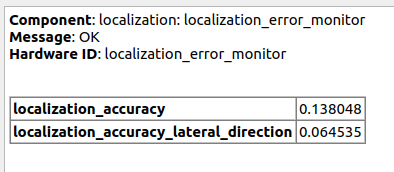
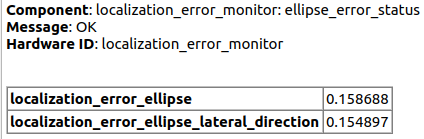
fix(localization_error_monitor, system diag): fix to use diagnostics_module in localization_util (autowarefoundation/autoware_universe#8543)
* fix(localization_error_monitor): fix to use diagnostics_module in localization_util

* fix: update media

* fix: update component name

* fix: rename include file

---------

diff --git a/universe/localization/autoware_localization_error_monitor/test/test_diagnostics.cpp b/universe/localization/autoware_localization_error_monitor/test/test_diagnostics.cpp
@@ -12,7 +12,7 @@
 // See the License for the specific language governing permissions and
 // limitations under the License.
 
-#include "diagnostics.hpp"
+#include "diagnostics_helper.hpp"
 
 #include <gtest/gtest.h>
 
@@ -80,66 +80,4 @@ TEST(TestLocalizationErrorMonitorDiagnostics, CheckLocalizationAccuracyLateralDi
   stat = autoware::localization_error_monitor::check_localization_accuracy_lateral_direction(
     ellipse_size, warn_ellipse_size, error_ellipse_size);
   EXPECT_EQ(stat.level, diagnostic_msgs::msg::DiagnosticStatus::ERROR);
-}
-
-TEST(TestLocalizationErrorMonitorDiagnostics, MergeDiagnosticStatus)
-{
-  diagnostic_msgs::msg::DiagnosticStatus merged_stat;
-  std::vector<diagnostic_msgs::msg::DiagnosticStatus> stat_array(2);
-
-  stat_array.at(0).level = diagnostic_msgs::msg::DiagnosticStatus::OK;
-  stat_array.at(0).message = "OK";
-  stat_array.at(1).level = diagnostic_msgs::msg::DiagnosticStatus::OK;
-  stat_array.at(1).message = "OK";
-  merged_stat = autoware::localization_error_monitor::merge_diagnostic_status(stat_array);
-  EXPECT_EQ(merged_stat.level, diagnostic_msgs::msg::DiagnosticStatus::OK);
-  EXPECT_EQ(merged_stat.message, "OK");
-
-  stat_array.at(0).level = diagnostic_msgs::msg::DiagnosticStatus::WARN;
-  stat_array.at(0).message = "WARN0";
-  stat_array.at(1).level = diagnostic_msgs::msg::DiagnosticStatus::OK;
-  stat_array.at(1).message = "OK";
-  merged_stat = autoware::localization_error_monitor::merge_diagnostic_status(stat_array);
-  EXPECT_EQ(merged_stat.level, diagnostic_msgs::msg::DiagnosticStatus::WARN);
-  EXPECT_EQ(merged_stat.message, "WARN0");
-
-  stat_array.at(0).level = diagnostic_msgs::msg::DiagnosticStatus::OK;
-  stat_array.at(0).message = "OK";
-  stat_array.at(1).level = diagnostic_msgs::msg::DiagnosticStatus::WARN;
-  stat_array.at(1).message = "WARN1";
-  merged_stat = autoware::localization_error_monitor::merge_diagnostic_status(stat_array);
-  EXPECT_EQ(merged_stat.level, diagnostic_msgs::msg::DiagnosticStatus::WARN);
-  EXPECT_EQ(merged_stat.message, "WARN1");
-
-  stat_array.at(0).level = diagnostic_msgs::msg::DiagnosticStatus::WARN;
-  stat_array.at(0).message = "WARN0";
-  stat_array.at(1).level = diagnostic_msgs::msg::DiagnosticStatus::WARN;
-  stat_array.at(1).message = "WARN1";
-  merged_stat = autoware::localization_error_monitor::merge_diagnostic_status(stat_array);
-  EXPECT_EQ(merged_stat.level, diagnostic_msgs::msg::DiagnosticStatus::WARN);
-  EXPECT_EQ(merged_stat.message, "WARN0; WARN1");
-
-  stat_array.at(0).level = diagnostic_msgs::msg::DiagnosticStatus::OK;
-  stat_array.at(0).message = "OK";
-  stat_array.at(1).level = diagnostic_msgs::msg::DiagnosticStatus::ERROR;
-  stat_array.at(1).message = "ERROR1";
-  merged_stat = autoware::localization_error_monitor::merge_diagnostic_status(stat_array);
-  EXPECT_EQ(merged_stat.level, diagnostic_msgs::msg::DiagnosticStatus::ERROR);
-  EXPECT_EQ(merged_stat.message, "ERROR1");
-
-  stat_array.at(0).level = diagnostic_msgs::msg::DiagnosticStatus::WARN;
-  stat_array.at(0).message = "WARN0";
-  stat_array.at(1).level = diagnostic_msgs::msg::DiagnosticStatus::ERROR;
-  stat_array.at(1).message = "ERROR1";
-  merged_stat = autoware::localization_error_monitor::merge_diagnostic_status(stat_array);
-  EXPECT_EQ(merged_stat.level, diagnostic_msgs::msg::DiagnosticStatus::ERROR);
-  EXPECT_EQ(merged_stat.message, "WARN0; ERROR1");
-
-  stat_array.at(0).level = diagnostic_msgs::msg::DiagnosticStatus::ERROR;
-  stat_array.at(0).message = "ERROR0";
-  stat_array.at(1).level = diagnostic_msgs::msg::DiagnosticStatus::ERROR;
-  stat_array.at(1).message = "ERROR1";
-  merged_stat = autoware::localization_error_monitor::merge_diagnostic_status(stat_array);
-  EXPECT_EQ(merged_stat.level, diagnostic_msgs::msg::DiagnosticStatus::ERROR);
-  EXPECT_EQ(merged_stat.message, "ERROR0; ERROR1");
 }

diff --git a/universe/localization/autoware_localization_error_monitor/src/localization_error_monitor.cpp b/universe/localization/autoware_localization_error_monitor/src/localization_error_monitor.cpp
@@ -14,7 +14,7 @@
 
 #include "localization_error_monitor.hpp"
 
-#include "diagnostics.hpp"
+#include "diagnostics_helper.hpp"
 
 #include <Eigen/Dense>
 
@@ -56,36 +56,38 @@ LocalizationErrorMonitor::LocalizationErrorMonitor(const rclcpp::NodeOptions & o
   ellipse_marker_pub_ =
     this->create_publisher<visualization_msgs::msg::Marker>("debug/ellipse_marker", durable_qos);
 
-  diag_pub_ = this->create_publisher<diagnostic_msgs::msg::DiagnosticArray>("/diagnostics", 10);
-
   logger_configure_ = std::make_unique<autoware::universe_utils::LoggerLevelConfigure>(this);
+
+  diagnostics_error_monitor_ = std::make_unique<DiagnosticsModule>(this, "ellipse_error_status");
 }
 
 void LocalizationErrorMonitor::on_odom(nav_msgs::msg::Odometry::ConstSharedPtr input_msg)
 {
+  diagnostics_error_monitor_->clear();
+
   ellipse_ = autoware::localization_util::calculate_xy_ellipse(input_msg->pose, scale_);
 
   const auto ellipse_marker = autoware::localization_util::create_ellipse_marker(
     ellipse_, input_msg->header, input_msg->pose);
   ellipse_marker_pub_->publish(ellipse_marker);
 
-  // diagnostics
-  std::vector<diagnostic_msgs::msg::DiagnosticStatus> diag_status_array;
-  diag_status_array.push_back(
-    check_localization_accuracy(ellipse_.long_radius, warn_ellipse_size_, error_ellipse_size_));
-  diag_status_array.push_back(check_localization_accuracy_lateral_direction(
+  // update localization accuracy diagnostics
+  const auto accuracy_status =
+    check_localization_accuracy(ellipse_.long_radius, warn_ellipse_size_, error_ellipse_size_);
+  diagnostics_error_monitor_->add_key_value("localization_error_ellipse", ellipse_.long_radius);
+  diagnostics_error_monitor_->update_level_and_message(
+    accuracy_status.level, accuracy_status.message);
+
+  // update lateral direction error diagnostics
+  const auto lateral_direction_status = check_localization_accuracy_lateral_direction(
     ellipse_.size_lateral_direction, warn_ellipse_size_lateral_direction_,
-    error_ellipse_size_lateral_direction_));
+    error_ellipse_size_lateral_direction_);
+  diagnostics_error_monitor_->add_key_value(
+    "localization_error_ellipse_lateral_direction", ellipse_.size_lateral_direction);
+  diagnostics_error_monitor_->update_level_and_message(
+    lateral_direction_status.level, lateral_direction_status.message);
 
-  diagnostic_msgs::msg::DiagnosticStatus diag_merged_status;
-  diag_merged_status = merge_diagnostic_status(diag_status_array);
-  diag_merged_status.name = "localization: " + std::string(this->get_name());
-  diag_merged_status.hardware_id = this->get_name();
-
-  diagnostic_msgs::msg::DiagnosticArray diag_msg;
-  diag_msg.header.stamp = input_msg->header.stamp;
-  diag_msg.status.push_back(diag_merged_status);
-  diag_pub_->publish(diag_msg);
+  diagnostics_error_monitor_->publish(this->now());
 }
 }  // namespace autoware::localization_error_monitor
 

diff --git a/universe/localization/autoware_localization_error_monitor/src/diagnostics_helper.hpp b/universe/localization/autoware_localization_error_monitor/src/diagnostics_helper.hpp
@@ -12,7 +12,8 @@
 // See the License for the specific language governing permissions and
 // limitations under the License.
 
-#include "diagnostics.hpp"
+#ifndef DIAGNOSTICS_HELPER_HPP_
+#define DIAGNOSTICS_HELPER_HPP_
 
 #include <diagnostic_msgs/msg/diagnostic_status.hpp>
 
@@ -21,15 +22,10 @@
 
 namespace autoware::localization_error_monitor
 {
-diagnostic_msgs::msg::DiagnosticStatus check_localization_accuracy(
+inline diagnostic_msgs::msg::DiagnosticStatus check_localization_accuracy(
   const double ellipse_size, const double warn_ellipse_size, const double error_ellipse_size)
 {
   diagnostic_msgs::msg::DiagnosticStatus stat;
-
-  diagnostic_msgs::msg::KeyValue key_value;
-  key_value.key = "localization_error_ellipse";
-  key_value.value = std::to_string(ellipse_size);
-  stat.values.push_back(key_value);
 
   stat.level = diagnostic_msgs::msg::DiagnosticStatus::OK;
   stat.message = "OK";
@@ -45,15 +41,10 @@ diagnostic_msgs::msg::DiagnosticStatus check_localization_accuracy(
   return stat;
 }
 
-diagnostic_msgs::msg::DiagnosticStatus check_localization_accuracy_lateral_direction(
+inline diagnostic_msgs::msg::DiagnosticStatus check_localization_accuracy_lateral_direction(
   const double ellipse_size, const double warn_ellipse_size, const double error_ellipse_size)
 {
   diagnostic_msgs::msg::DiagnosticStatus stat;
-
-  diagnostic_msgs::msg::KeyValue key_value;
-  key_value.key = "localization_error_ellipse_lateral_direction";
-  key_value.value = std::to_string(ellipse_size);
-  stat.values.push_back(key_value);
 
   stat.level = diagnostic_msgs::msg::DiagnosticStatus::OK;
   stat.message = "OK";
@@ -69,31 +60,6 @@ diagnostic_msgs::msg::DiagnosticStatus check_localization_accuracy_lateral_direc
   return stat;
 }
 
-// The highest level within the stat_array will be reflected in the merged_stat.
-diagnostic_msgs::msg::DiagnosticStatus merge_diagnostic_status(
-  const std::vector<diagnostic_msgs::msg::DiagnosticStatus> & stat_array)
-{
-  diagnostic_msgs::msg::DiagnosticStatus merged_stat;
-
-  for (const auto & stat : stat_array) {
-    if ((stat.level > diagnostic_msgs::msg::DiagnosticStatus::OK)) {
-      if (!merged_stat.message.empty()) {
-        merged_stat.message += "; ";
-      }
-      merged_stat.message += stat.message;
-    }
-    if (stat.level > merged_stat.level) {
-      merged_stat.level = stat.level;
-    }
-    for (const auto & value : stat.values) {
-      merged_stat.values.push_back(value);
-    }
-  }
-
-  if (merged_stat.level == diagnostic_msgs::msg::DiagnosticStatus::OK) {
-    merged_stat.message = "OK";
-  }
-
-  return merged_stat;
-}
 }  // namespace autoware::localization_error_monitor
+
+#endif  // DIAGNOSTICS_HELPER_HPP_

diff --git a/universe/localization/autoware_localization_error_monitor/src/localization_error_monitor.hpp b/universe/localization/autoware_localization_error_monitor/src/localization_error_monitor.hpp
@@ -16,12 +16,12 @@
 #define LOCALIZATION_ERROR_MONITOR_HPP_
 
 #include "localization_util/covariance_ellipse.hpp"
+#include "localization_util/diagnostics_module.hpp"
 
 #include <Eigen/Dense>
 #include <autoware/universe_utils/ros/logger_level_configure.hpp>
 #include <rclcpp/rclcpp.hpp>
 
-#include <diagnostic_msgs/msg/diagnostic_array.hpp>
 #include <nav_msgs/msg/odometry.hpp>
 #include <visualization_msgs/msg/marker_array.hpp>
 
@@ -34,11 +34,12 @@ class LocalizationErrorMonitor : public rclcpp::Node
 private:
   rclcpp::Subscription<nav_msgs::msg::Odometry>::SharedPtr odom_sub_;
   rclcpp::Publisher<visualization_msgs::msg::Marker>::SharedPtr ellipse_marker_pub_;
-  rclcpp::Publisher<diagnostic_msgs::msg::DiagnosticArray>::SharedPtr diag_pub_;
 
   rclcpp::TimerBase::SharedPtr timer_;
 
   std::unique_ptr<autoware::universe_utils::LoggerLevelConfigure> logger_configure_;
+
+  std::unique_ptr<DiagnosticsModule> diagnostics_error_monitor_;
 
   double scale_;
   double error_ellipse_size_;
